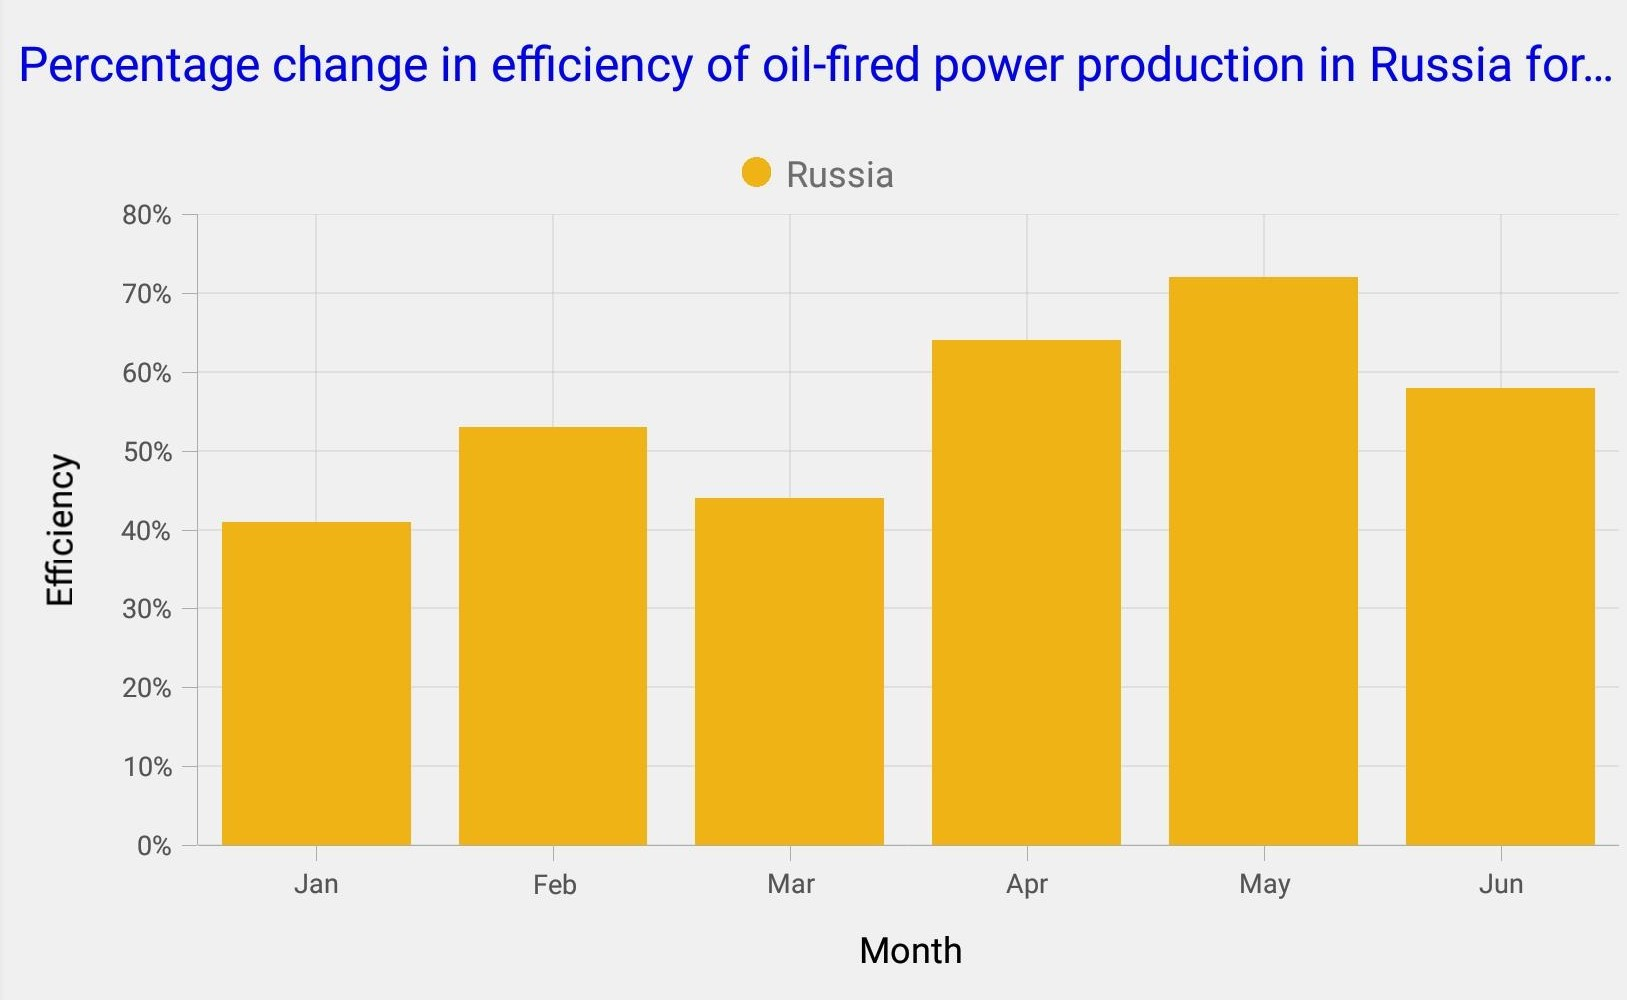
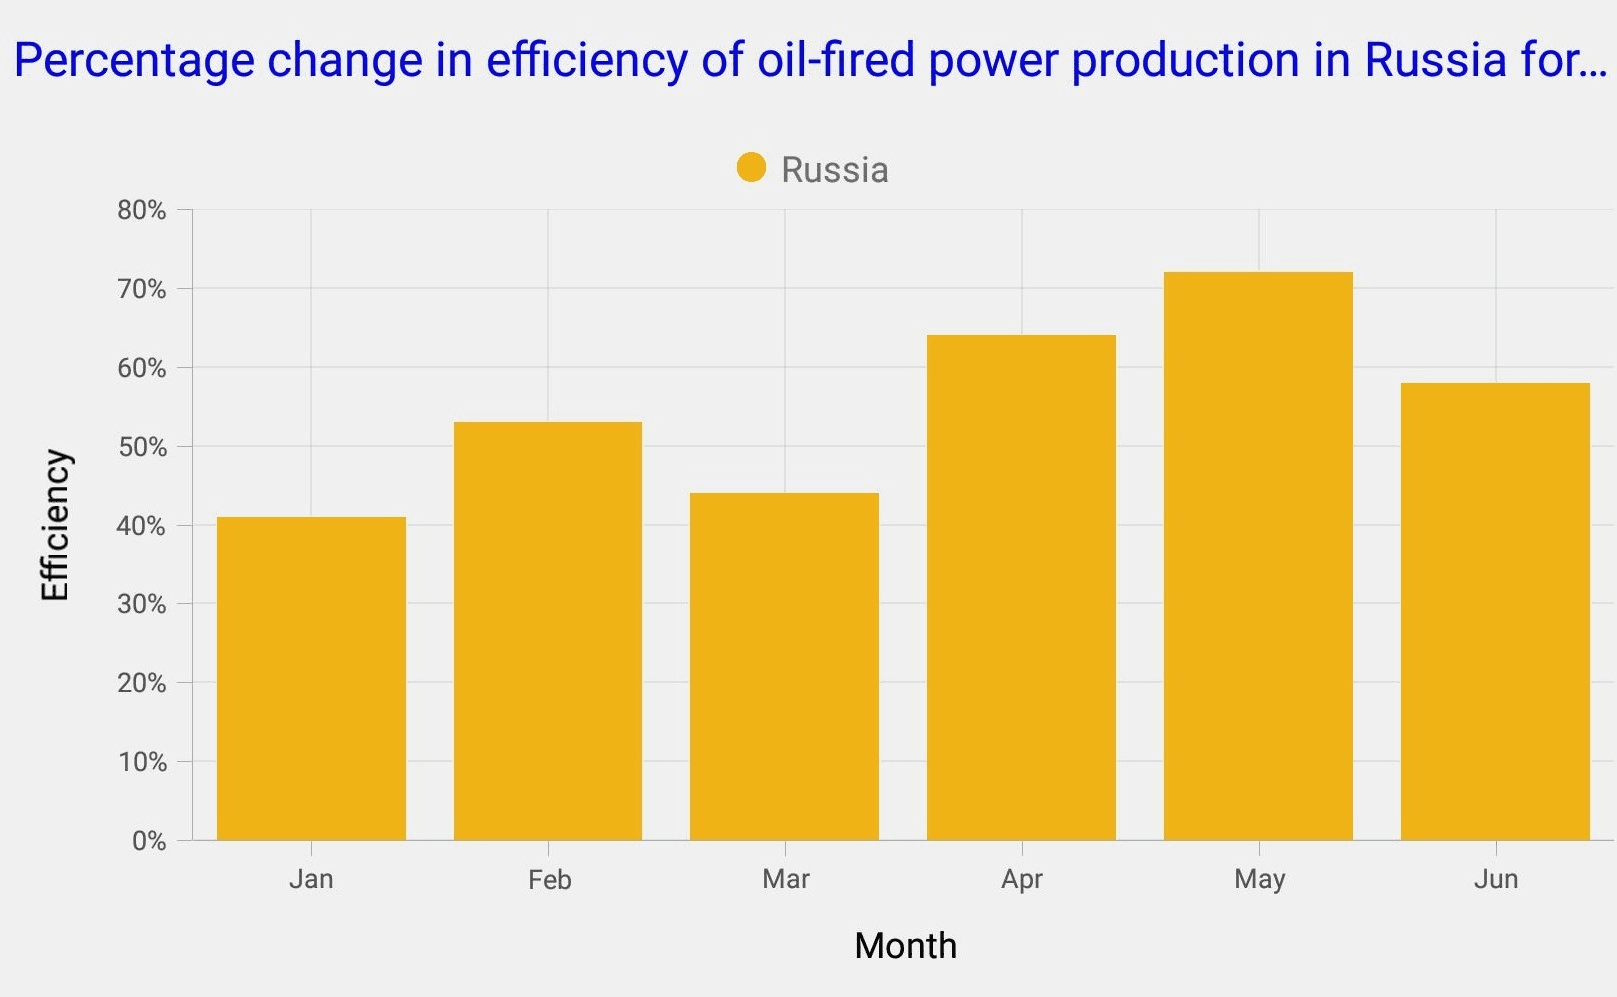
Resolved the image size error and front matter errors.

diff --git a/xamarin-android/SfChart/charttitle.md b/xamarin-android/SfChart/charttitle.md
@@ -1,13 +1,13 @@
 ---
 layout: post
-title: Chart Title
-description: How to customize the chart title. 
+title: Syncfusion.Xamarin.Forms Chart Title
+description: How to add chart title and customize the appearance of the chart title in Xamarin.Android Chart
 platform: Xamarin.Android
 control: Chart
 documentation: ug
 ---
 
-# Title
+# Title in Xamarin Charts (SfChart)
 
 You can define and customize the Chart title using [`Title`](https://help.syncfusion.com/cr/xamarin-android/Com.Syncfusion.Charts.ChartBase.html#Com_Syncfusion_Charts_ChartBase_Title) property of [`SfChart`](http://help.syncfusion.com/cr/cref_files/xamarin-android/Syncfusion.SfChart.Android~Com.Syncfusion.Charts.SfChart.html). The [`Text`](http://help.syncfusion.com/cr/cref_files/xamarin-android/Syncfusion.SfChart.Android~Com.Syncfusion.Charts.ChartTitle~Text.html) property of [`ChartTitle`](https://help.syncfusion.com/cr/xamarin-android/Com.Syncfusion.Charts.ChartTitle.html) is used to set the text for the title. 
 
